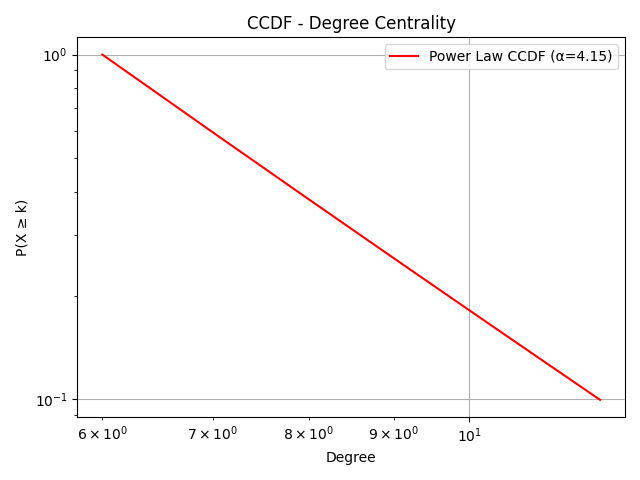
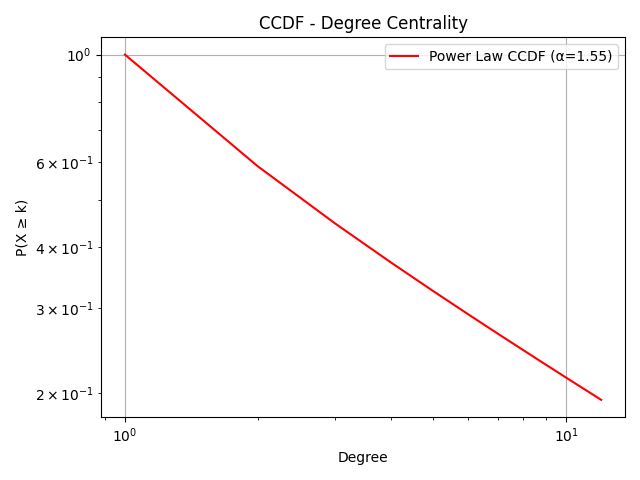
add: use raw data for fit clean up script

diff --git a/Scripts/scale-free-test.py b/Scripts/scale-free-test.py
@@ -8,36 +8,28 @@ output_dir = "ScaleFreeResults"
 os.makedirs(output_dir, exist_ok=True)
 
 # Load data
-df = pd.read_csv("Metrics/scale_free_proportion.csv")
+df = pd.read_csv("Metrics/metrics_centrality.csv")
 
 # Define degree and frequency columns
-distributions = {
-    "Degree Centrality": "degree",
-    "In-degree Centrality": "degree",
-    "Out-degree Centrality": "degree"
-}
+distributions = [
+    "Degree Centrality",
+    "In-degree Centrality",
+    "Out-degree Centrality",
+]
 
-# Prepare list for summary results
 results_summary = []
 
-for label, deg_col in distributions.items():
-    print(f"\n=== Analyzing: {label} ===")
+for centrality in distributions:
+    print(f"\n=== Analyzing: {centrality} ===")
 
-    # Expand degree distribution into raw data points
-    deg_vals = df[deg_col].astype(int)
-    freq_vals = df[label]
-
-    # Create raw samples by repeating degrees according to their (rounded) frequency * 1000
-    samples = []
-    for d, f in zip(deg_vals, freq_vals):
-        samples.extend([d] * int(round(f * 1000)))
-
+    samples = list(df[centrality])
     if len(samples) == 0:
         print("No valid samples extracted.")
         continue
 
     # Fit power-law model
-    fit = powerlaw.Fit(samples, discrete=True, verbose=False)
+    fit = powerlaw.Fit(samples, discrete=True, verbose=False,
+                       xmin=1)
 
     # Trigger internal calculations to compute sigma (GoF p-value)
     fit.power_law.pdf()
@@ -55,7 +47,7 @@ for label, deg_col in distributions.items():
 
     # Save result
     results_summary.append({
-        "Metric": label,
+        "Metric": centrality,
         "alpha": alpha,
         "xmin": xmin,
         "KS_statistic": ks_stat,
@@ -66,26 +58,26 @@ for label, deg_col in distributions.items():
     plt.figure(figsize=(8, 6))
     fit.plot_pdf(label='Empirical', color='blue')
     fit.power_law.plot_pdf(label=f'Power Law fit (α={alpha:.2f})', color='red')
-    plt.title(f"PDF - {label}")
+    plt.title(f"PDF - {centrality}")
     plt.xlabel("Degree")
     plt.ylabel("P(k)")
     plt.legend()
     plt.grid(True)
     plt.tight_layout()
-    plt.savefig(os.path.join(output_dir, f"pdf_{label.replace(' ', '_').lower()}.png"))
+    plt.savefig(os.path.join(output_dir, f"pdf_{centrality.replace(' ', '_').lower()}.png"))
     plt.close()
 
     # Plot CCDF
     plt.figure(figsize=(8, 6))
     fit.plot_ccdf(label='Empirical', color='blue')
     fit.power_law.plot_ccdf(label=f'Power Law CCDF (α={alpha:.2f})', color='red')
-    plt.title(f"CCDF - {label}")
+    plt.title(f"CCDF - {centrality}")
     plt.xlabel("Degree")
     plt.ylabel("P(X ≥ k)")
     plt.legend()
     plt.grid(True)
     plt.tight_layout()
-    plt.savefig(os.path.join(output_dir, f"ccdf_{label.replace(' ', '_').lower()}.png"))
+    plt.savefig(os.path.join(output_dir, f"ccdf_{centrality.replace(' ', '_').lower()}.png"))
     plt.close()
 
 # Save summary to CSV
